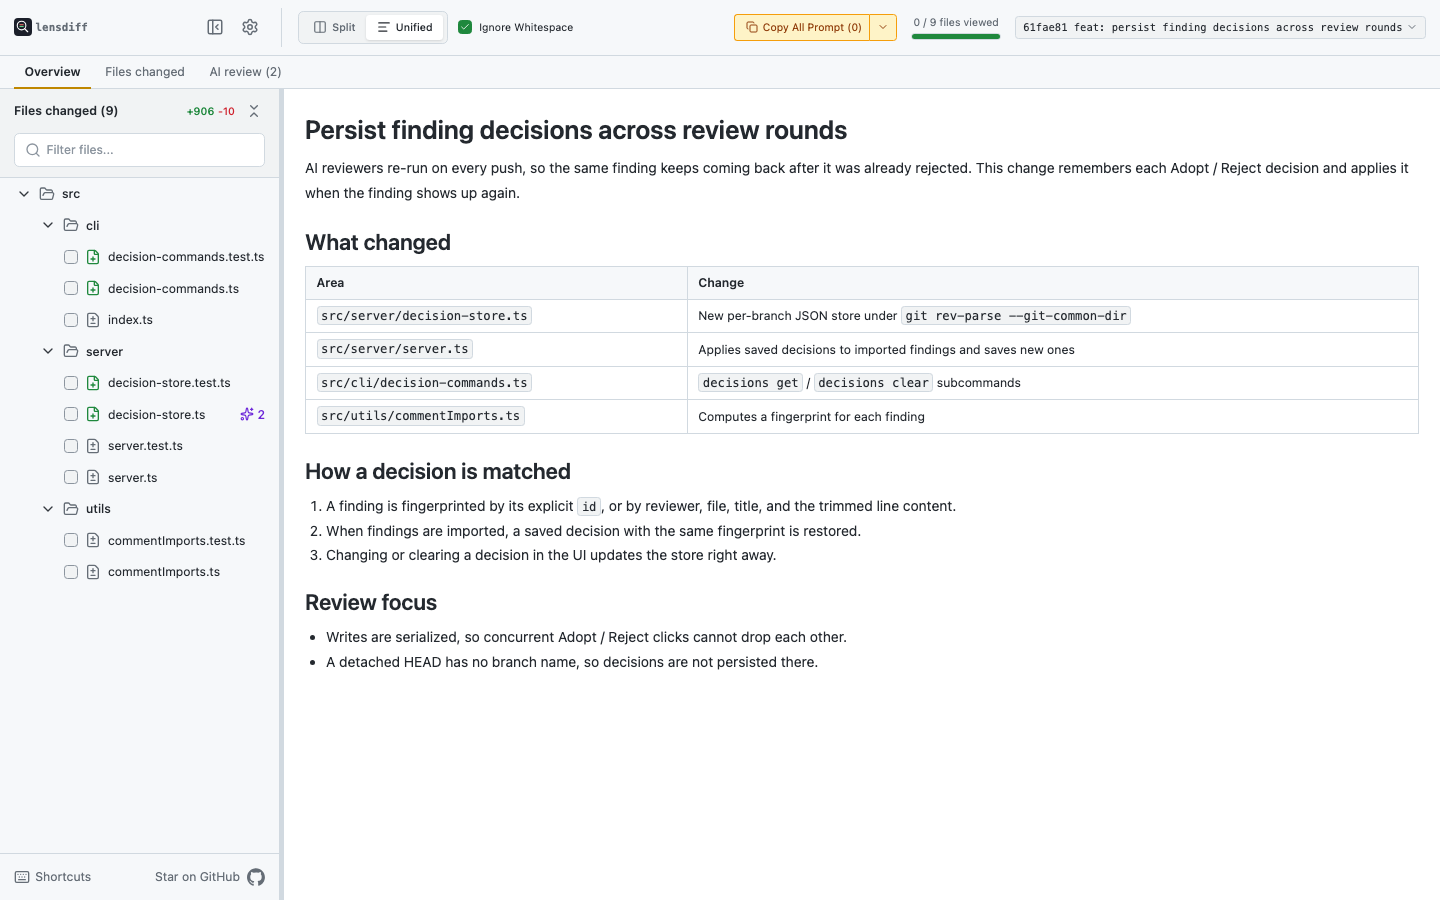
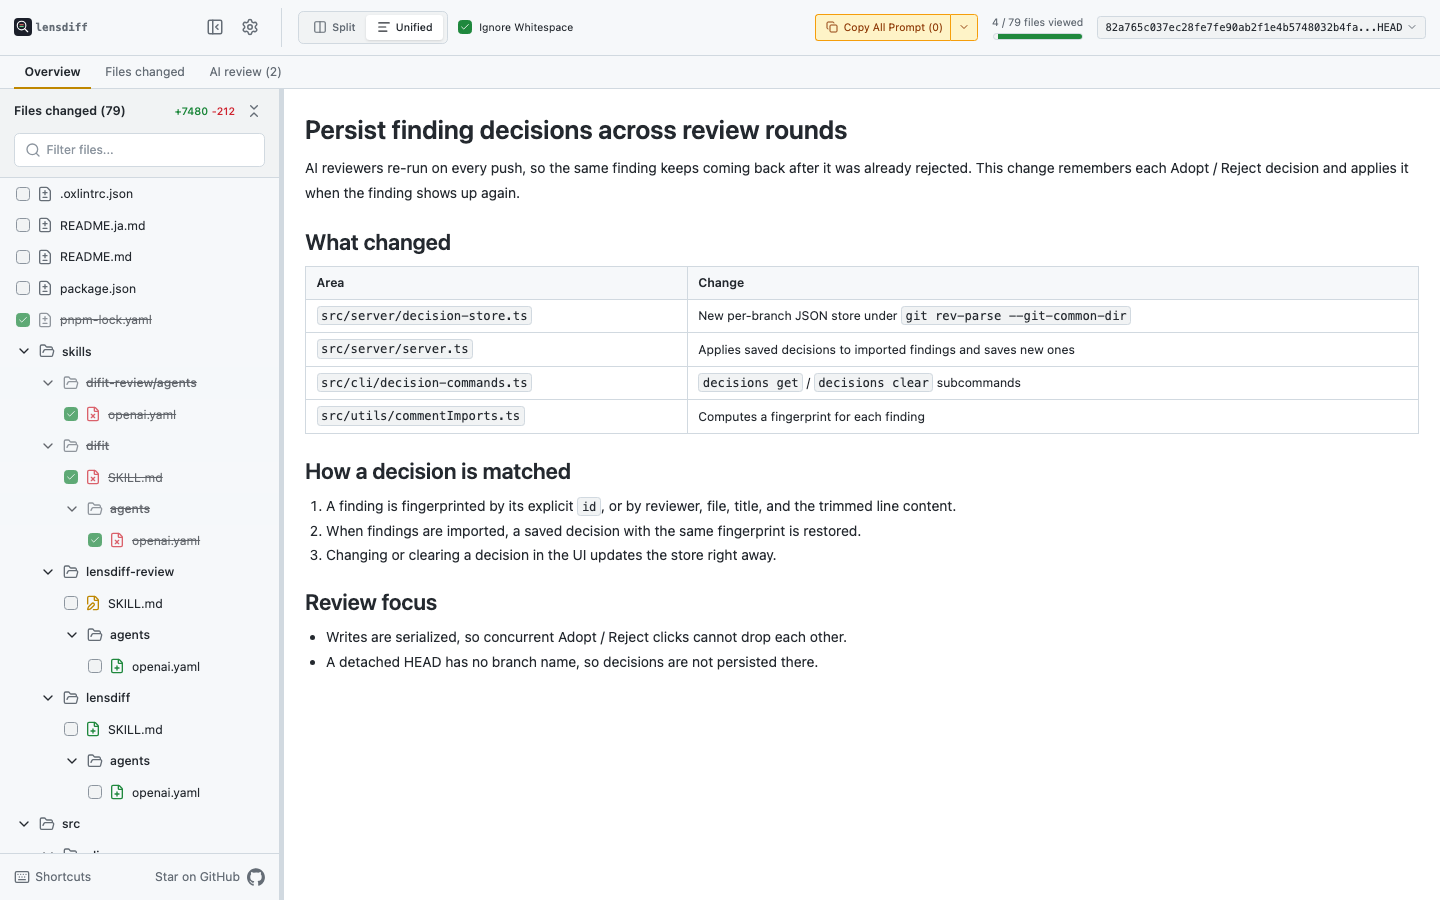
docs: capture the symbol panel and use a post-rename demo commit

diff --git a/scripts/capture-screenshots.js b/scripts/capture-screenshots.js
@@ -12,7 +12,8 @@ const repoRoot = path.resolve(path.dirname(fileURLToPath(import.meta.url)), '..'
 const cliPath = path.join(repoRoot, 'dist', 'cli', 'index.js');
 const imagesDir = path.join(repoRoot, 'docs', 'images');
 
-const DEMO_COMMIT = '61fae81c933b4fa6630be88c42e18b692fb1f836';
+const DEMO_COMMIT = '776f33920b22a52fdc3d02f26767e3cc4a2585d9';
+const DEMO_BASE = '82a765c037ec28fe7fe90ab2f1e4b5748032b4fa';
 const DEMO_FILE = 'src/server/decision-store.ts';
 const SYMBOL_LINE = 7;
 const SYMBOL_NAME = 'DiffCommentThread';
@@ -49,7 +50,7 @@ const REVIEW_COMMENTS = [
     type: 'thread',
     kind: 'explanation',
     filePath: DEMO_FILE,
-    position: { side: 'new', line: { start: 91, end: 97 } },
+    position: { side: 'new', line: { start: 105, end: 108 } },
     body: 'Decisions live under `--git-common-dir`, so every worktree of a clone shares them. One JSON file is kept per branch.',
   },
   {
@@ -59,14 +60,14 @@ const REVIEW_COMMENTS = [
     severity: 'warn',
     title: 'Detached HEAD silently disables decisions',
     filePath: DEMO_FILE,
-    position: { side: 'new', line: { start: 98, end: 101 } },
+    position: { side: 'new', line: { start: 108, end: 114 } },
     body: '`symbolic-ref` fails on a detached HEAD, the error is swallowed, and the store becomes `null`. Log a hint so users know why decisions are not carried over.',
   },
   {
     type: 'thread',
     kind: 'explanation',
     filePath: DEMO_FILE,
-    position: { side: 'new', line: { start: 121, end: 134 } },
+    position: { side: 'new', line: { start: 140, end: 155 } },
     body: 'Each write is chained on `pendingWrite` and goes through a temporary file plus `rename`, so a crash never leaves half-written JSON behind.',
   },
   {
@@ -76,7 +77,7 @@ const REVIEW_COMMENTS = [
     severity: 'info',
     title: 'Temporary file is left behind if rename fails',
     filePath: DEMO_FILE,
-    position: { side: 'new', line: { start: 128, end: 130 } },
+    position: { side: 'new', line: { start: 149, end: 151 } },
     body: 'Remove `temporaryPath` in a `catch` so a failed rename does not accumulate `.tmp` files in the decisions directory.',
   },
 ];
@@ -141,7 +142,7 @@ async function startServer({ demoRepo, workDir }) {
     [
       cliPath,
       'HEAD',
-      'HEAD^',
+      DEMO_BASE,
       '--no-open',
       '--keep-alive',
       '--clean',
@@ -200,9 +201,10 @@ async function openTab(page, name) {
 async function captureFilesChanged(page) {
   await openTab(page, 'Files changed');
   const file = page.locator(`[data-file-path="${DEMO_FILE}"]`);
+  await file.evaluate((element) => element.scrollIntoView({ block: 'start' }));
   await file.locator('[data-thread-kind="finding"]').first().waitFor();
   await file
-    .locator('[data-symbol-line="86"]')
+    .locator('[data-symbol-line="98"]')
     .first()
     .evaluate((line) => {
       line.scrollIntoView({ block: 'start' });
@@ -225,7 +227,7 @@ async function captureSymbolPanel(page) {
     .locator(`[data-file-path="${DEMO_FILE}"] [data-symbol-line="${SYMBOL_LINE}"]`)
     .first();
   await line.evaluate((element) => element.scrollIntoView({ block: 'center' }));
-  const box = await line.evaluate((element, symbol) => {
+  const position = await line.evaluate((element, symbol) => {
     const walker = document.createTreeWalker(element, NodeFilter.SHOW_TEXT);
     for (let node = walker.nextNode(); node; node = walker.nextNode()) {
       const index = node.textContent.indexOf(symbol);
@@ -233,20 +235,25 @@ async function captureSymbolPanel(page) {
       const range = document.createRange();
       range.setStart(node, index);
       range.setEnd(node, index + symbol.length);
-      const rect = range.getBoundingClientRect();
-      return { x: rect.x + rect.width / 2, y: rect.y + rect.height / 2 };
+      const symbolRect = range.getBoundingClientRect();
+      const lineRect = element.getBoundingClientRect();
+      return {
+        x: symbolRect.x + symbolRect.width / 2 - lineRect.x,
+        y: symbolRect.y + symbolRect.height / 2 - lineRect.y,
+      };
     }
     return null;
   }, SYMBOL_NAME);
-  if (!box) {
+  if (!position) {
     throw new Error(`${SYMBOL_NAME} was not found on line ${SYMBOL_LINE} of ${DEMO_FILE}`);
   }
 
-  await page.keyboard.down('Control');
-  await page.mouse.click(box.x, box.y);
-  await page.keyboard.up('Control');
-  await page.getByRole('button', { name: 'Close symbol panel' }).waitFor({ timeout: 60_000 });
-  await page.waitForTimeout(1500);
+  await line.click({ position, modifiers: ['ControlOrMeta'] });
+  const fileView = page.getByRole('region', { name: 'File content' });
+  const targetLine = fileView.locator('[data-target-line="true"]');
+  await targetLine.waitFor({ timeout: 60_000 });
+  await targetLine.hover();
+  await page.waitForTimeout(1000);
   await page.screenshot({ path: path.join(imagesDir, 'symbol-panel.png') });
 }
 

diff --git a/README.md b/README.md
@@ -21,6 +21,9 @@ What it adds:
 - **Reviewer progress**: `lensdiff reviewer start --port <port> <name>` and `lensdiff reviewer done --port <port> <name>`.
 - **Decisions carried to the next round**: Adopt/Reject decisions are saved per branch at `$(git rev-parse --git-common-dir)/lensdiff/decisions/<branch>.json` and applied in the next review round. Inspect or delete them with `lensdiff decisions get [--branch <name>]` and `lensdiff decisions clear [--branch <name>]`.
 - **Go to definition / references**: Cmd/Ctrl+click a symbol to look it up through `ruby-lsp`, `typescript-language-server`, or `pyright-langserver` found on PATH (for TypeScript, the repository's `node_modules/.bin` is preferred). Available only when the target is `HEAD`, `working`, or `.`. The right panel shows the whole file that contains the definition.
+
+  ![Symbol panel](docs/images/symbol-panel.png)
+
 - **Whole files**: `--context 100000` shows whole files without folding unchanged lines.
 
 Example finding:
